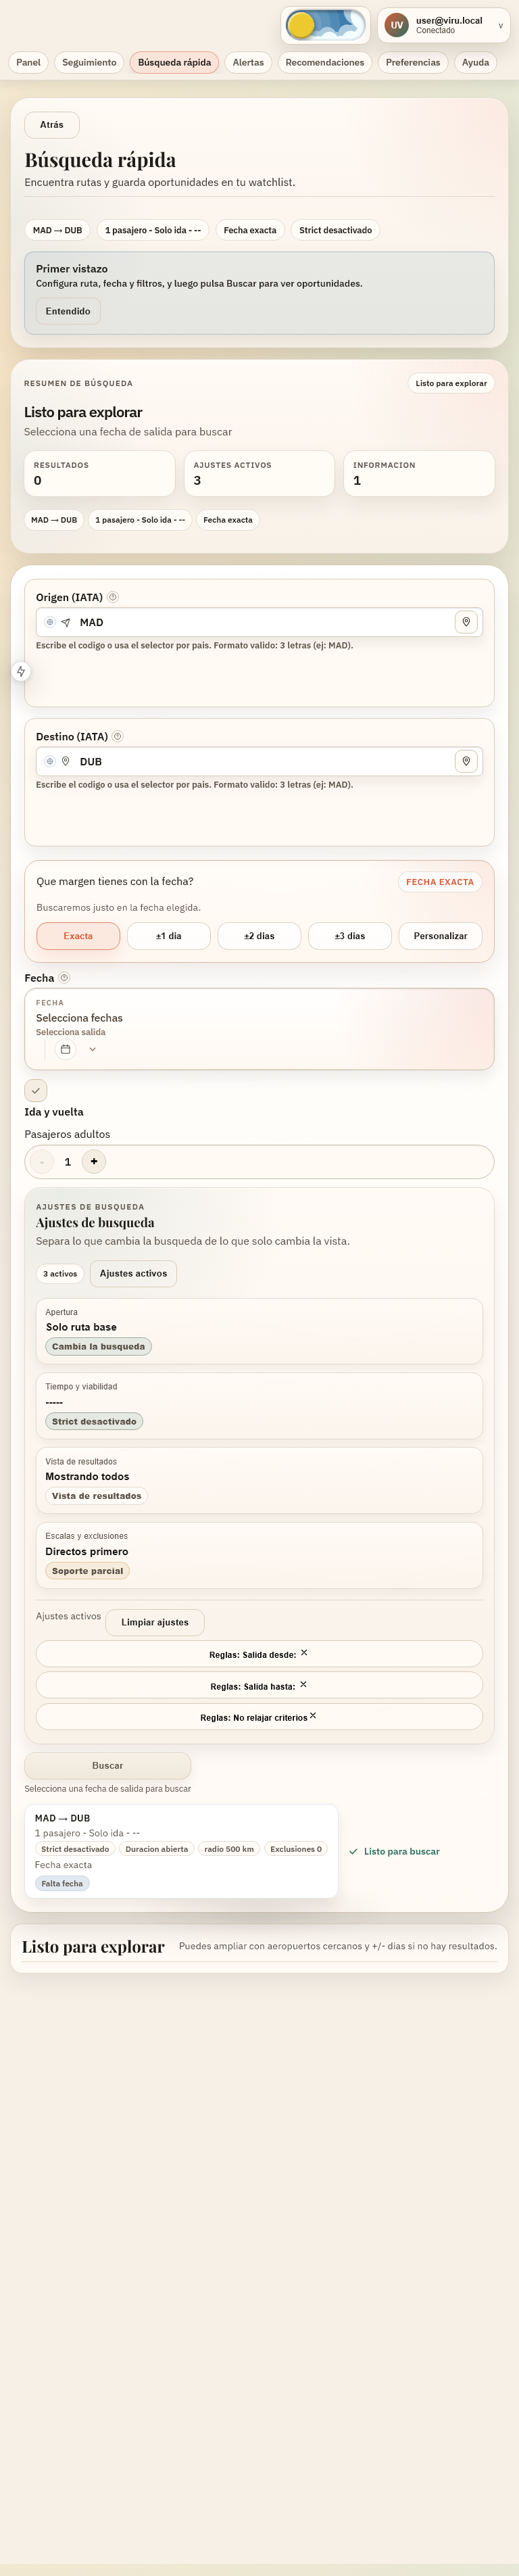
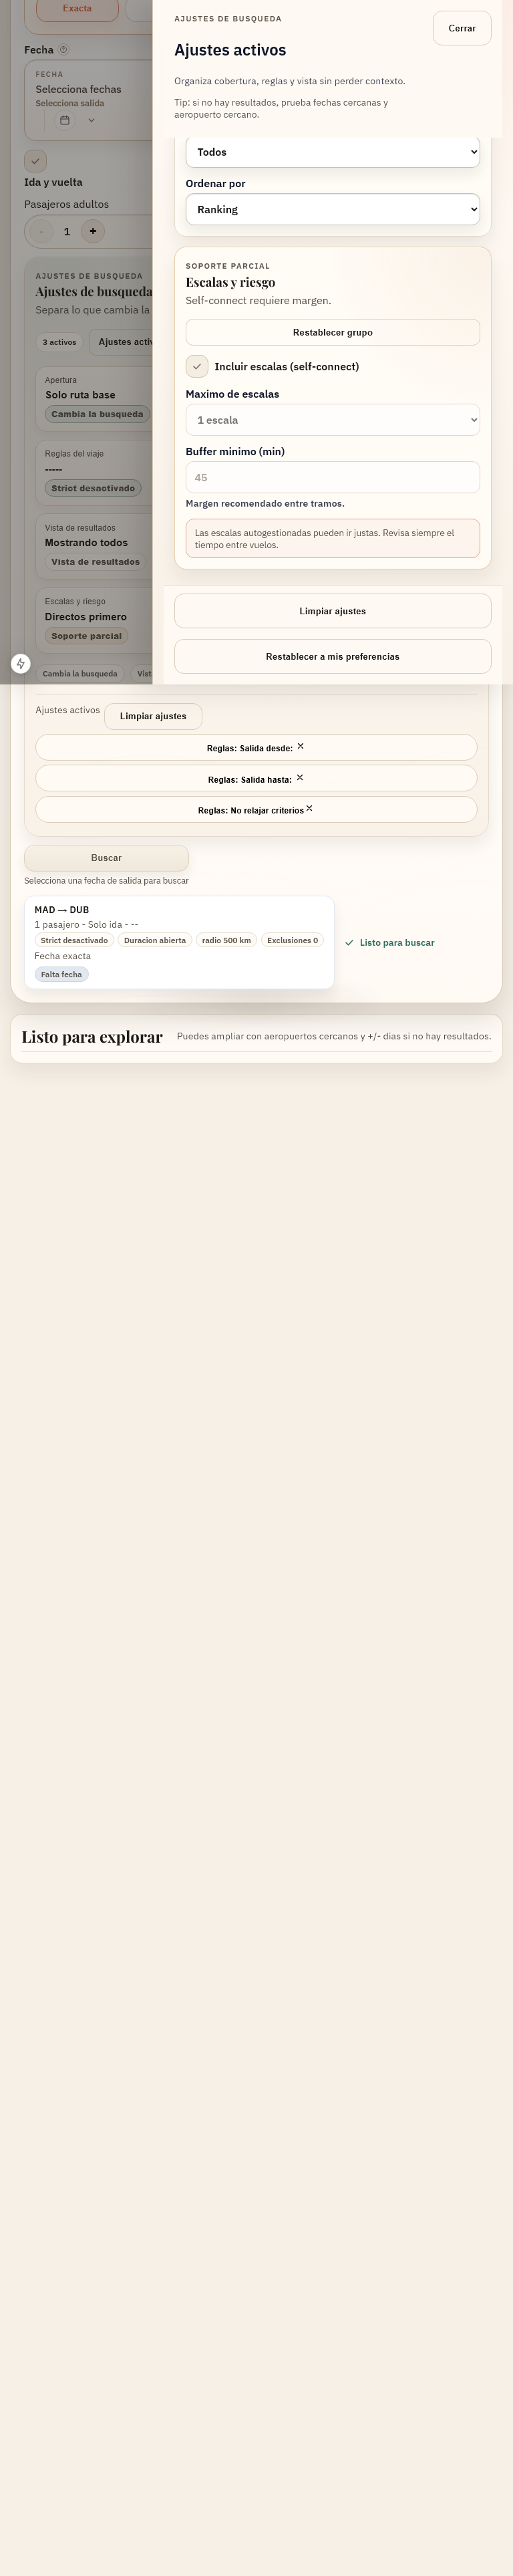
fix: stabilize quick-search settings drawer layout and visual QA

diff --git a/frontend/src/styles/screens.css b/frontend/src/styles/screens.css
@@ -13928,8 +13928,66 @@ textarea::placeholder {
 
 .qs-filter-console-drawer {
   display: grid;
-  gap: 0.9rem;
+  gap: 0.95rem;
   padding: 1rem;
+  padding-bottom: 1.4rem;
+  overflow: visible;
+}
+
+.qs-filters-panel {
+  box-sizing: border-box;
+  width: min(540px, 100vw);
+  max-width: 100vw;
+}
+
+.qs-filters-header {
+  padding: 1rem 1rem 0.7rem;
+}
+
+.qs-filter-actions {
+  position: sticky;
+  bottom: 0;
+  z-index: 2;
+  padding: 0.8rem 1rem max(0.95rem, env(safe-area-inset-bottom, 0px));
+  margin: 0;
+  border-top: 1px solid color-mix(in srgb, var(--border) 70%, transparent);
+  backdrop-filter: blur(8px);
+}
+
+.qs-filter-console-drawer .field,
+.qs-filter-console-drawer .qs-check {
+  min-width: 0;
+}
+
+.qs-filter-console-drawer .field > span,
+.qs-filter-console-drawer .field > label {
+  min-width: 0;
+}
+
+.qs-filter-console-drawer .qs-input,
+.qs-filter-console-drawer select.qs-input,
+.qs-filter-console-drawer input.qs-input {
+  width: 100%;
+  max-width: 100%;
+  min-width: 0;
+  box-sizing: border-box;
+  padding: 0.62rem 0.78rem;
+}
+
+.qs-filter-console-drawer select.qs-input {
+  text-overflow: ellipsis;
+  white-space: nowrap;
+}
+
+.qs-filter-console-drawer .qs-range {
+  display: grid;
+  grid-template-columns: minmax(0, 1fr) minmax(88px, 124px);
+  gap: 0.6rem;
+  align-items: center;
+}
+
+.qs-filter-console-drawer .qs-range input[type="number"] {
+  text-align: center;
 }
 
 .qs-filter-group-guided {
@@ -13955,7 +14013,7 @@ textarea::placeholder {
 .qs-filter-group-guided .qs-filter-grid {
   display: grid;
   grid-template-columns: repeat(2, minmax(0, 1fr));
-  gap: 0.75rem;
+  gap: 0.85rem;
 }
 
 .qs-filter-wide {
@@ -14012,6 +14070,15 @@ textarea::placeholder {
 }
 
 @media (max-width: 520px) {
+  .qs-filters-panel {
+    width: 100vw;
+    max-width: 100vw;
+  }
+
+  .qs-filters-header {
+    padding: 0.85rem 0.8rem 0.66rem;
+  }
+
   .qs-filter-console {
     border-radius: 18px;
     padding: 0.85rem;
@@ -14026,6 +14093,14 @@ textarea::placeholder {
 
   .qs-filter-console-drawer {
     padding: 0.75rem;
+  }
+
+  .qs-filter-actions {
+    padding-inline: 0.75rem;
+  }
+
+  .qs-filter-console-drawer .qs-range {
+    grid-template-columns: 1fr;
   }
 }
 